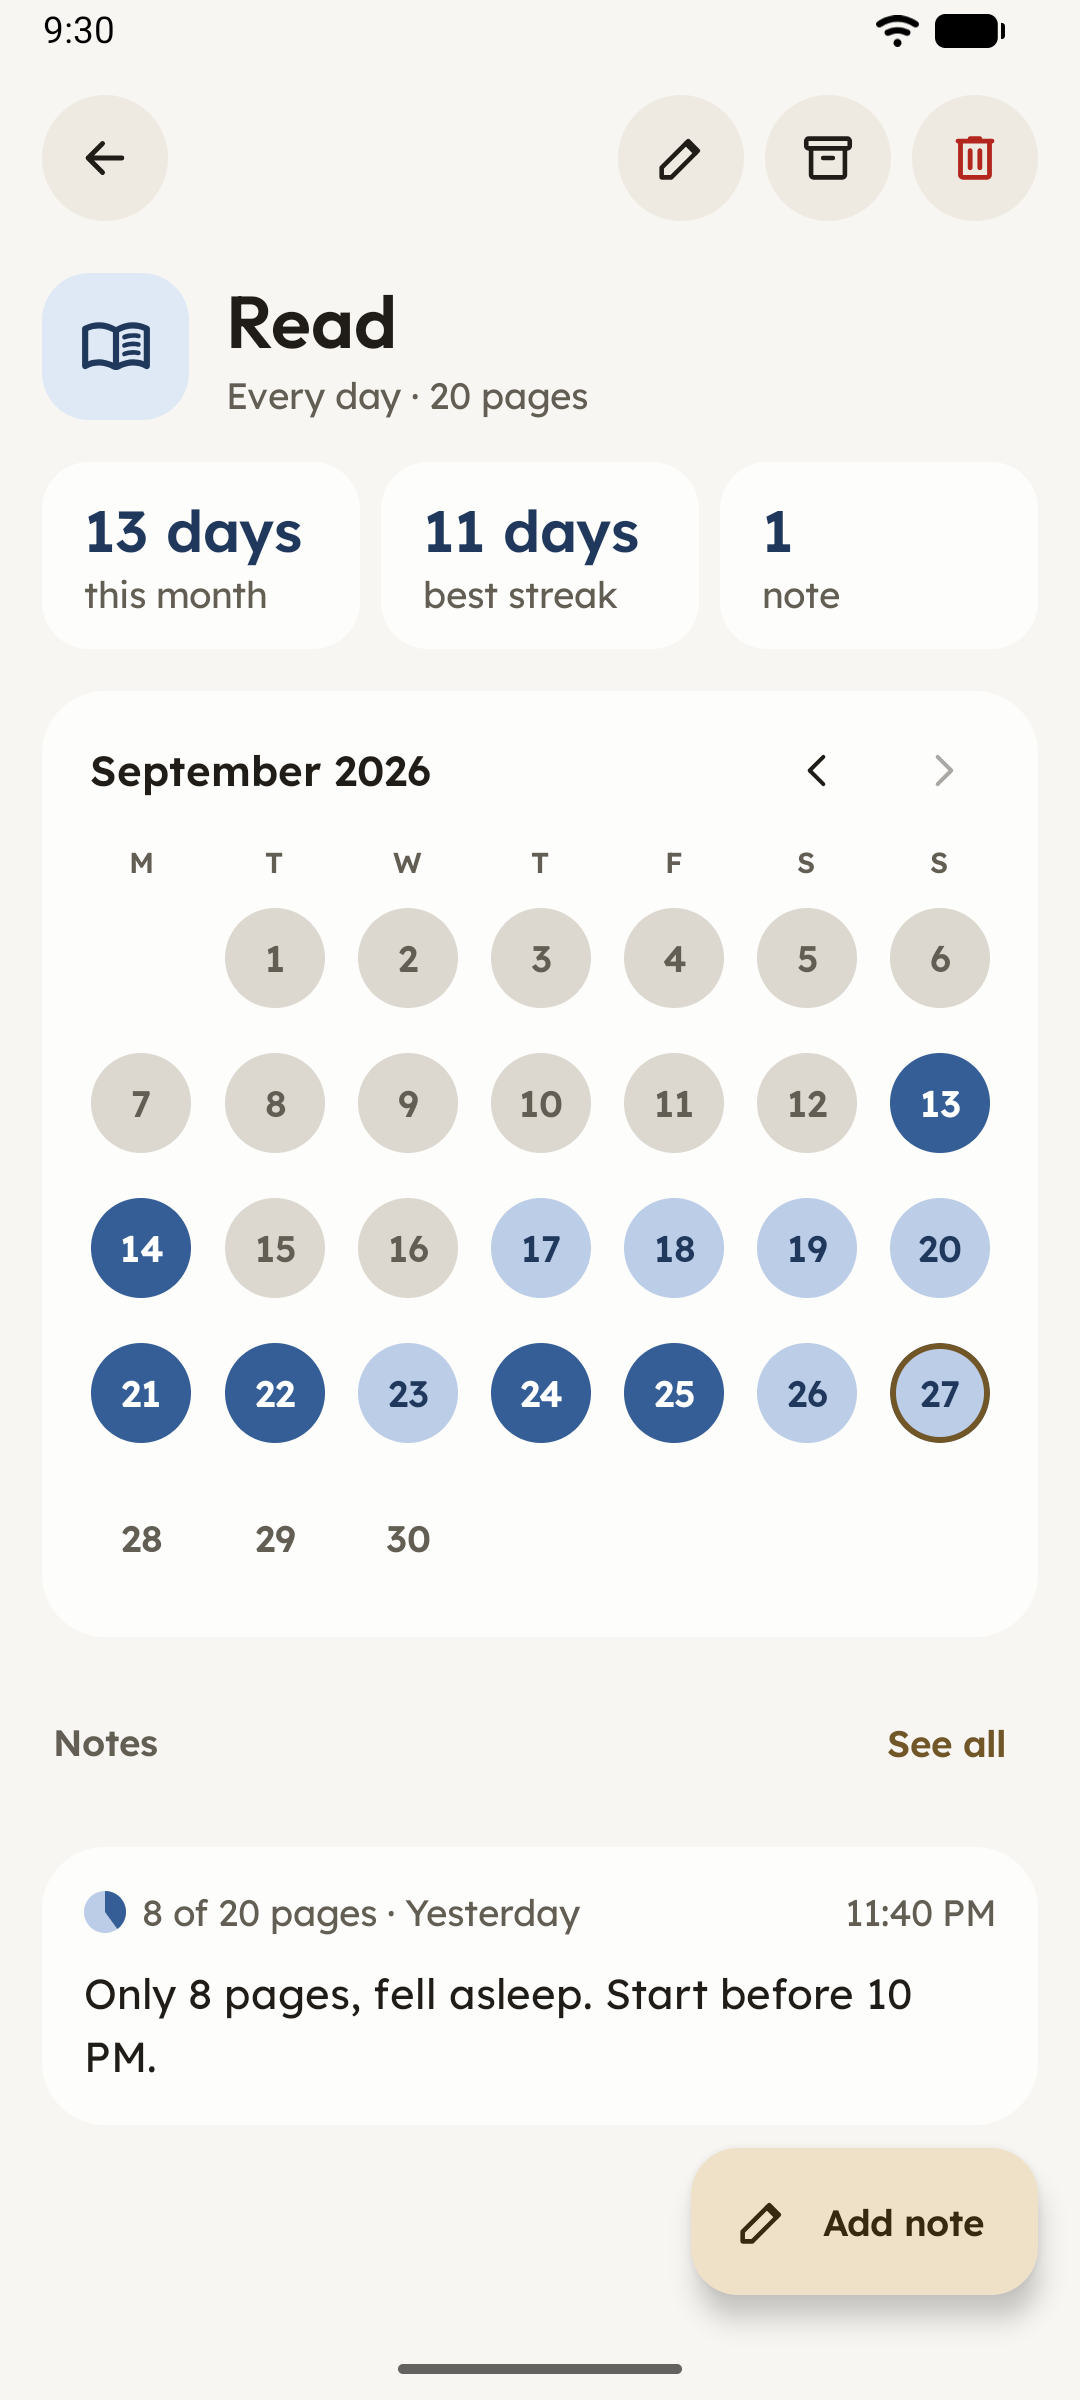
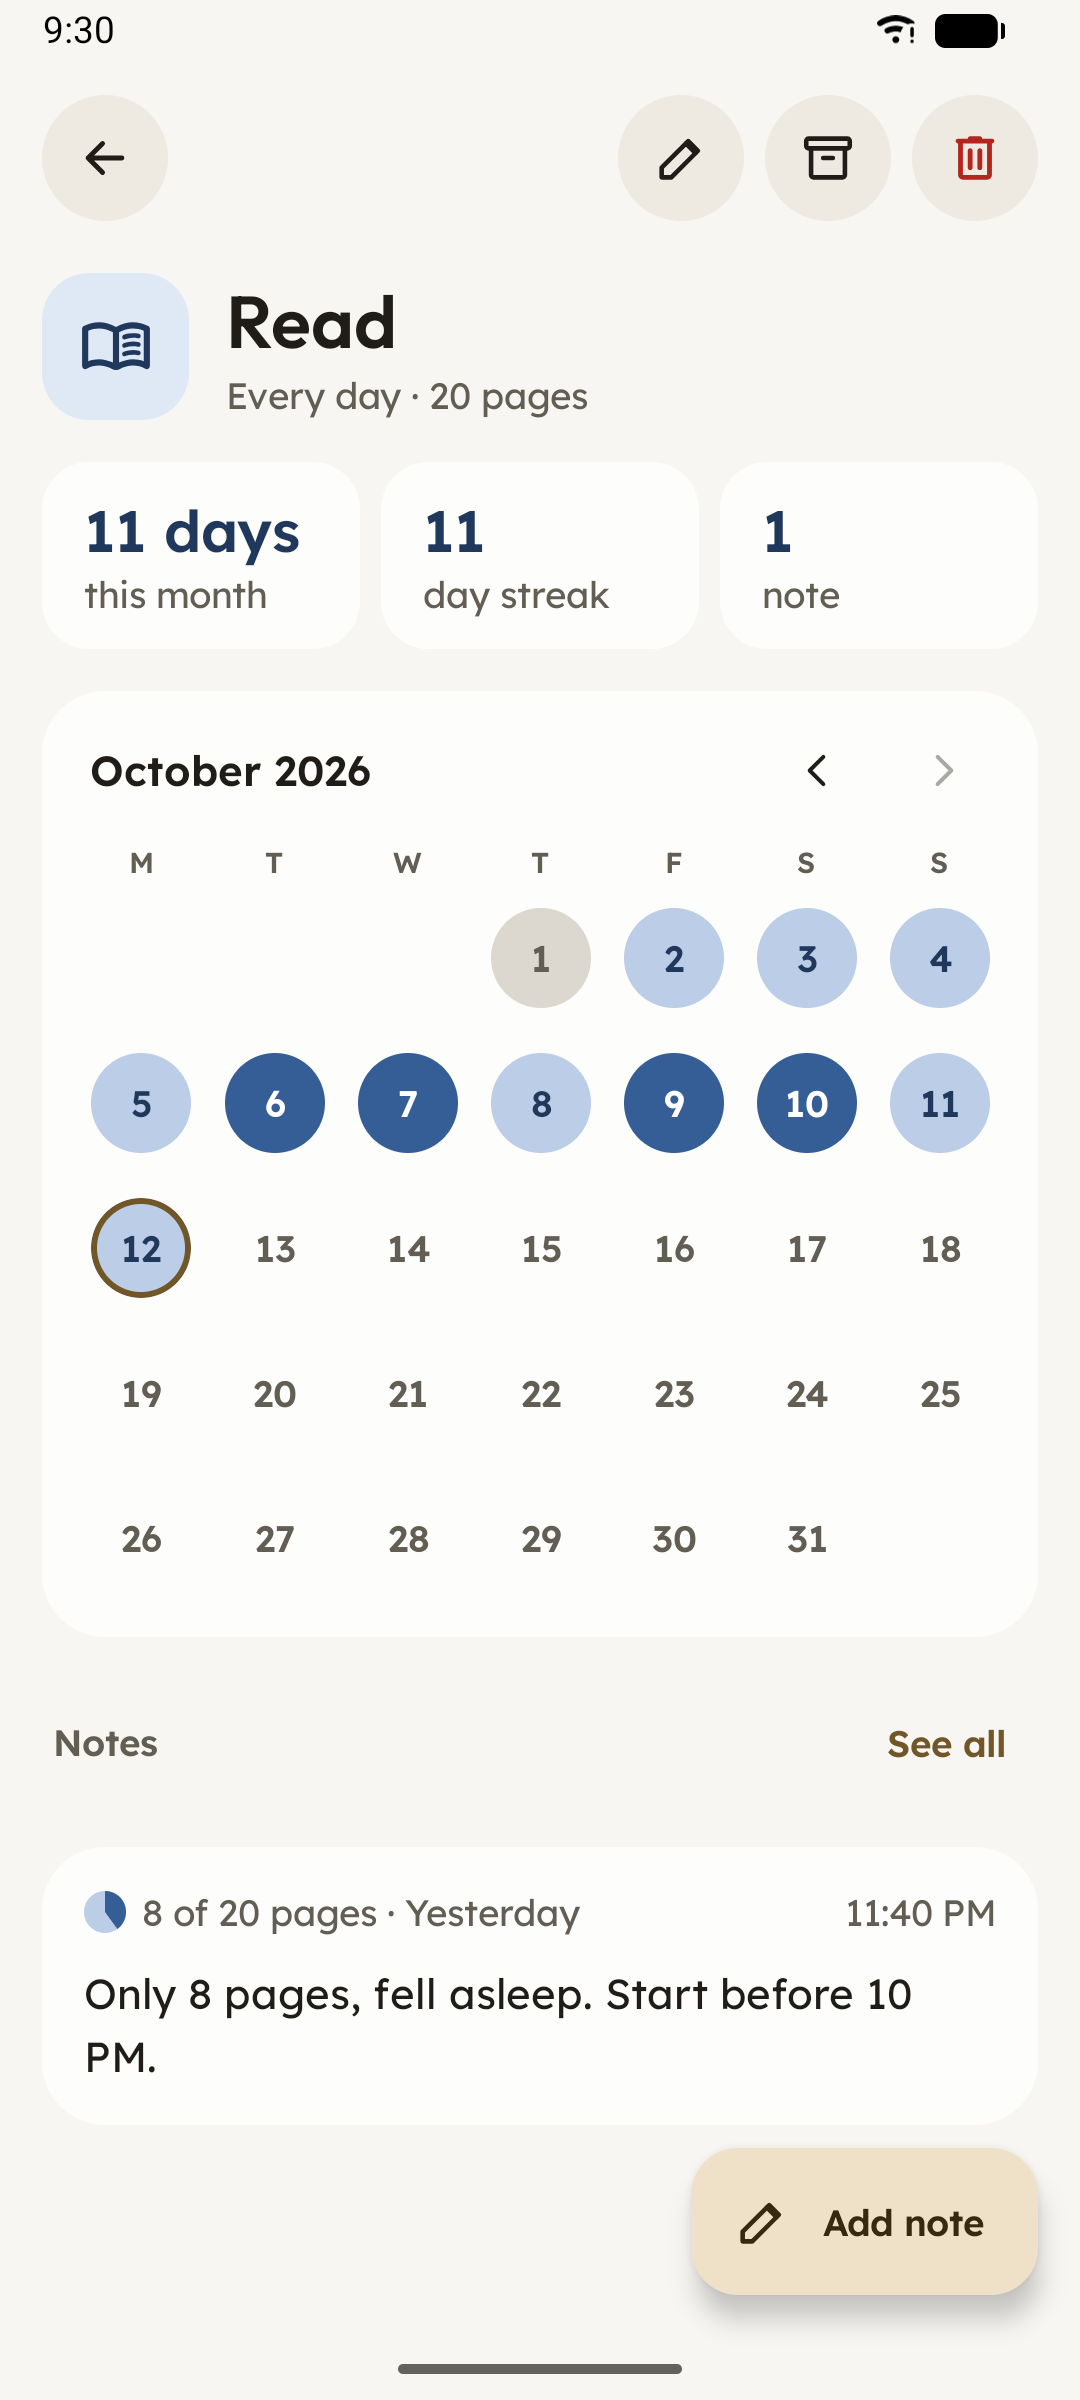
Delete from Edit closes the habit's page, no reminder once a habit is logged, current streak on habit detail, even legend gaps
- Deleting a habit from Edit also closes its detail page, so it no longer lands on an empty screen.
- A habit logged today (Done, Partial or Skip) gets no reminder, and a reminder still showing is removed when it is logged. The "to go" reminder text is gone with it.
- Habit detail shows the current streak ("4 / day streak") in place of the best streak.
- Habits > Overall: the legend has 16dp above and below.

diff --git a/app/src/main/java/app/sprout/habits/notify/ReminderNotifier.kt b/app/src/main/java/app/sprout/habits/notify/ReminderNotifier.kt
@@ -15,7 +15,6 @@ import app.sprout.habits.data.Habit
 import app.sprout.habits.domain.measure
 import app.sprout.habits.data.HabitRepository
 import app.sprout.habits.data.TrackType
-import app.sprout.habits.ui.today.TodayViewModel.Companion.formatNumber
 import app.sprout.habits.domain.isScheduled
 import java.time.LocalDate
 import kotlinx.coroutines.CoroutineScope
@@ -26,19 +25,18 @@ class ReminderNotifier(
     private val context: Context,
     private val repository: HabitRepository,
 ) {
-    /** The habit's reminder, unless today is already done or skipped. */
+    /** The habit's reminder, unless today is already logged (Done, Partial or Skip). */
     @SuppressLint("MissingPermission") // checked by canPost()
     suspend fun showReminder(habit: Habit) {
         if (habit.archived || !Notifications.canPost(context)) return
-        val entry = repository.getEntry(habit.id, LocalDate.now().toEpochDay())
-        if (entry?.status == EntryStatus.DONE || entry?.status == EntryStatus.SKIP) return
-        val (title, text) = reminderText(habit, entry?.amount ?: 0.0, ResourceStrings(context))
+        if (repository.getEntry(habit.id, LocalDate.now().toEpochDay()) != null) return
+        val (title, text) = reminderText(habit, ResourceStrings(context))
         post(habit.id, Notifications.CHANNEL_REMINDERS, title, text, reminderId(habit.id))
     }
 
     /**
-     * Takes a reminder that is still showing out of the shade once its habit is done or skipped
-     * today, wherever that was logged (the app, a widget, an import).
+     * Takes a reminder that is still showing out of the shade once its habit is logged today,
+     * wherever that was done (the app, a widget, an import).
      */
     fun start(scope: CoroutineScope) {
         scope.launch {
@@ -48,8 +46,7 @@ class ReminderNotifier(
                 val today = LocalDate.now().toEpochDay()
                 val manager = NotificationManagerCompat.from(context)
                 for (entry in entries) {
-                    if (entry.date != today || entry.status == EntryStatus.PARTIAL) continue
-                    manager.cancel(reminderId(entry.habitId))
+                    if (entry.date == today) manager.cancel(reminderId(entry.habitId))
                 }
             }
         }
@@ -94,14 +91,10 @@ class ReminderNotifier(
         fun reminderId(habitId: Long) = habitId.toInt() * 2
         fun noteReminderId(habitId: Long) = habitId.toInt() * 2 + 1
 
-        /** Title and line for a reminder, given how much is already logged today. */
-        fun reminderText(habit: Habit, amount: Double, strings: Strings): Pair<String, String> {
-            return when {
-                habit.trackType == TrackType.CHECK -> habit.name to strings(R.string.reminder_check)
-                amount > 0 -> strings(R.string.reminder_to_go, habit.name, habit.measure((habit.target - amount).coerceAtLeast(0.0))) to
-                    strings(R.string.reminder_progress, formatNumber(amount), habit.measure(habit.target))
-                else -> habit.name to strings(R.string.reminder_goal, habit.measure(habit.target))
-            }
+        /** Title and line for a reminder. */
+        fun reminderText(habit: Habit, strings: Strings): Pair<String, String> = when (habit.trackType) {
+            TrackType.CHECK -> habit.name to strings(R.string.reminder_check)
+            TrackType.AMOUNT -> habit.name to strings(R.string.reminder_goal, habit.measure(habit.target))
         }
     }
 }

diff --git a/app/src/test/java/app/sprout/habits/notify/ReminderTextTest.kt b/app/src/test/java/app/sprout/habits/notify/ReminderTextTest.kt
@@ -9,27 +9,21 @@ import org.junit.Test
 class ReminderTextTest {
     private val read = Habit(name = "Read", icon = "book", colorHue = 215, trackType = TrackType.AMOUNT, target = 20.0, unit = "pages")
 
-    @Test fun partialAmountSaysHowMuchIsLeft() = assertEquals(
-        "Read · 5 pages to go" to "You're at 15 of 20 pages today.",
-        ReminderNotifier.reminderText(read, 15.0, TestStrings),
-    )
-
-    @Test fun nothingLoggedStatesTheGoal() =
-        assertEquals("Read" to "Goal today: 20 pages.", ReminderNotifier.reminderText(read, 0.0, TestStrings))
+    @Test fun measureHabitStatesTheGoal() =
+        assertEquals("Read" to "Goal today: 20 pages.", ReminderNotifier.reminderText(read, TestStrings))
 
     @Test fun minutesHabitReadsInMinutes() {
         val workout = Habit(name = "Workout", icon = "dumbbell", colorHue = 12, trackType = TrackType.AMOUNT, target = 45.0, unit = "min", step = 5.0)
-        assertEquals("Workout · 15 min to go" to "You're at 30 of 45 min today.", ReminderNotifier.reminderText(workout, 30.0, TestStrings))
+        assertEquals("Workout" to "Goal today: 45 min.", ReminderNotifier.reminderText(workout, TestStrings))
     }
 
     @Test fun checkHabitIsJustTheName() {
         val vitamins = Habit(name = "Vitamins", icon = "pill", colorHue = 95)
-        assertEquals("Vitamins" to "Time to check it off.", ReminderNotifier.reminderText(vitamins, 0.0, TestStrings))
+        assertEquals("Vitamins" to "Time to check it off.", ReminderNotifier.reminderText(vitamins, TestStrings))
     }
 
     @Test fun amountWithoutUnitReadsCleanly() {
         val pushups = Habit(name = "Push-ups", icon = "dumbbell", colorHue = 12, trackType = TrackType.AMOUNT, target = 30.0)
-        assertEquals("Push-ups · 10 to go" to "You're at 20 of 30 today.", ReminderNotifier.reminderText(pushups, 20.0, TestStrings))
-        assertEquals("Push-ups" to "Goal today: 30.", ReminderNotifier.reminderText(pushups, 0.0, TestStrings))
+        assertEquals("Push-ups" to "Goal today: 30.", ReminderNotifier.reminderText(pushups, TestStrings))
     }
 }

diff --git a/app/src/main/java/app/sprout/habits/ui/detail/HabitDetailViewModel.kt b/app/src/main/java/app/sprout/habits/ui/detail/HabitDetailViewModel.kt
@@ -12,7 +12,6 @@ import app.sprout.habits.data.HabitIcon
 import app.sprout.habits.data.HabitRepository
 import app.sprout.habits.data.Note
 import app.sprout.habits.data.SettingsRepository
-import app.sprout.habits.domain.bestStreak
 import app.sprout.habits.domain.currentStreak
 import app.sprout.habits.domain.dayCredit
 import app.sprout.habits.domain.history
@@ -56,7 +55,6 @@ data class HabitDetailUi(
     /** "this month", or "August" when looking at another month. */
     val monthDoneLabel: String,
     val currentStreak: Int,
-    val bestStreak: Int,
     val noteCount: Int,
     val monthLabel: String,
     val canGoForward: Boolean,
@@ -139,7 +137,6 @@ class HabitDetailViewModel(
             monthDone = (first..minOf(last, todayDay)).count { history.isScheduled(it) && history.isKept(it, todayDay) },
             monthDoneLabel = if (ym == YearMonth.now()) strings(R.string.this_month) else ym.month.getDisplayName(TextStyle.FULL, Locale.getDefault()),
             currentStreak = history.currentStreak(todayDay),
-            bestStreak = history.bestStreak(todayDay),
             noteCount = notes.size,
             monthLabel = ym.format(datePattern("MMMM yyyy")),
             canGoForward = ym < YearMonth.now(),

diff --git a/app/src/main/java/app/sprout/habits/ui/nav/SproutNavHost.kt b/app/src/main/java/app/sprout/habits/ui/nav/SproutNavHost.kt
@@ -143,7 +143,14 @@ fun SproutNavHost(
             composable<EditHabitRoute> { entry ->
                 val id = entry.toRoute<EditHabitRoute>().habitId
                 val vm = viewModel { EditHabitViewModel(container.repository, container.settings, id) }
-                EditHabitScreen(vm, onClose = { navController.popBackStack() })
+                EditHabitScreen(
+                    vm,
+                    onClose = { navController.popBackStack() },
+                    // The habit's detail page has nothing left to show, so it closes too.
+                    onDeleted = {
+                        if (!navController.popBackStack<HabitDetailRoute>(inclusive = true)) navController.popBackStack()
+                    },
+                )
             }
             composable<HabitsRoute> {
                 TabFrame {

diff --git a/app/src/main/java/app/sprout/habits/ui/edit/EditHabitViewModel.kt b/app/src/main/java/app/sprout/habits/ui/edit/EditHabitViewModel.kt
@@ -63,6 +63,11 @@ class EditHabitViewModel(
     /** Emits once the habit has been saved, so the screen can close. */
     val saved = _saved.receiveAsFlow()
 
+    private val _deleted = Channel<Unit>(Channel.CONFLATED)
+
+    /** Emits once the habit has been deleted, so the screens showing it can close. */
+    val deleted = _deleted.receiveAsFlow()
+
     /** The habit as stored, kept so saving preserves fields the form doesn't show. */
     private var original: Habit? = null
 
@@ -134,7 +139,7 @@ class EditHabitViewModel(
         val habit = original ?: return
         viewModelScope.launch {
             repository.deleteHabit(habit)
-            _saved.send(Unit)
+            _deleted.send(Unit)
         }
     }
 

diff --git a/app/src/main/java/app/sprout/habits/ui/detail/HabitDetailScreen.kt b/app/src/main/java/app/sprout/habits/ui/detail/HabitDetailScreen.kt
@@ -113,7 +113,7 @@ fun HabitDetailScreen(
             item(key = "stats") {
                 Row(horizontalArrangement = Arrangement.spacedBy(8.dp)) {
                     StatTile(days(ui.monthDone), ui.monthDoneLabel, hc, Modifier.weight(1f))
-                    StatTile(days(ui.bestStreak), stringResource(R.string.best_streak), hc, Modifier.weight(1f))
+                    StatTile("${ui.currentStreak}", stringResource(R.string.day_streak), hc, Modifier.weight(1f))
                     StatTile("${ui.noteCount}", pluralStringResource(R.plurals.notes_count_label, ui.noteCount), hc, Modifier.weight(1f))
                 }
             }

diff --git a/app/src/main/java/app/sprout/habits/ui/edit/EditHabitScreen.kt b/app/src/main/java/app/sprout/habits/ui/edit/EditHabitScreen.kt
@@ -87,9 +87,10 @@ import java.util.Locale
 import app.sprout.habits.ui.components.TimePickerSheet
 
 @Composable
-fun EditHabitScreen(viewModel: EditHabitViewModel, onClose: () -> Unit) {
+fun EditHabitScreen(viewModel: EditHabitViewModel, onClose: () -> Unit, onDeleted: () -> Unit) {
     val form by viewModel.form.collectAsStateWithLifecycle()
     LaunchedEffect(viewModel) { viewModel.saved.collect { onClose() } }
+    LaunchedEffect(viewModel) { viewModel.deleted.collect { onDeleted() } }
     if (!form.loaded) return
     var deleting by rememberSaveable { mutableStateOf(false) }
     EditHabitContent(

diff --git a/app/src/main/java/app/sprout/habits/ui/habits/HabitsScreen.kt b/app/src/main/java/app/sprout/habits/ui/habits/HabitsScreen.kt
@@ -236,7 +236,8 @@ private fun describe(kind: MarkKind, fraction: Float) = when (kind) {
 private fun Legend() {
     val colors = MaterialTheme.colorScheme
     FlowRow(
-        Modifier.fillMaxWidth().padding(horizontal = 4.dp),
+        // With the list's 8 dp, the legend has the same 16 dp under it as above it.
+        Modifier.fillMaxWidth().padding(start = 4.dp, end = 4.dp, bottom = 8.dp),
         horizontalArrangement = Arrangement.SpaceBetween,
         itemVerticalAlignment = Alignment.CenterVertically,
     ) {

diff --git a/tools/verify/smoke.py b/tools/verify/smoke.py
@@ -246,7 +246,7 @@ def edit_past_day_from_detail_calendar():
     d.nav("Habits")
     d.tap("Week")
     d.tap("Wake up at 7")
-    assert d.exists("best streak"), "habit detail didn't open"
+    assert d.exists("day streak"), "habit detail didn't open"
     time.sleep(0.8)  # let the screen transition finish before tapping a day
     if day.month != datetime.date.today().month:
         d.tap("Previous month")
@@ -283,7 +283,7 @@ def habits_week_and_overall():
 @check
 def habit_detail_opens():
     d.tap("Read", timeout=5)
-    assert d.exists("best streak"), "detail stats missing"
+    assert d.exists("day streak"), "detail stats missing"
     assert d.exists("this month"), "detail's first stat isn't \"this month\""
     assert not any(n.label.endswith("%") for n in d.dump()), "detail still shows a percentage"
     assert d.exists("Edit habit"), "edit action missing"

diff --git a/docs/FEATURES.md b/docs/FEATURES.md
@@ -22,7 +22,7 @@ Habits are created and edited on one screen: name, icon (7 suggestions, or any o
 
 Measure habits have a step: how far − / + and the slider move when logging (1 page, 500 steps, 0.25 h). Before 1.1 there was a separate Duration type; the database migration and backup import turn those habits into Measure habits in "min" (step 5) or "h" (step 0.25).
 
-The Habits tab has a Week view (seven day marks per habit, with arrows to earlier weeks; tap any past day to edit it in the same sheet as Today) and an Overall view (a 26-week heatmap per habit with its current and best streak). Tapping a habit opens its detail screen (round back, edit, archive and delete buttons in the header) with the days done this month, best streak, note count, a month calendar (tap a past day to edit it) and its notes.
+The Habits tab has a Week view (seven day marks per habit, with arrows to earlier weeks; tap any past day to edit it in the same sheet as Today) and an Overall view (a 26-week heatmap per habit with its current and best streak). Tapping a habit opens its detail screen (round back, edit, archive and delete buttons in the header) with the days done this month, the current streak, note count, a month calendar (tap a past day to edit it) and its notes.
 
 Code: `ui/edit/`, `ui/manage/`, `ui/habits/`, `ui/detail/`, statistics in `domain/Stats.kt`.
 
@@ -40,7 +40,7 @@ Code: `ui/insights/`.
 
 ## Reminders
 
-Each habit can have one daily reminder on its scheduled days. The time is set in a sheet with hour and minute steppers (tap or hold the arrows, or drag a number) and an AM/PM switch on 12-hour phones (`ui/components/TimePickerSheet.kt`). The notification shows what's left for today and opens the habit when tapped. Reminders are exact when the user allows "Alarms & reminders", and otherwise arrive within 10 minutes. At 9 PM, habits that were skipped and ask for a note get a short prompt to add one.
+Each habit can have one daily reminder on its scheduled days. The time is set in a sheet with hour and minute steppers (tap or hold the arrows, or drag a number) and an AM/PM switch on 12-hour phones (`ui/components/TimePickerSheet.kt`). The notification shows the habit and its goal and opens the habit when tapped. A habit already logged today (Done, Partial or Skip) gets no reminder, and one still showing is removed when the habit is logged. Reminders are exact when the user allows "Alarms & reminders", and otherwise arrive within 10 minutes. At 9 PM, habits that were skipped and ask for a note get a short prompt to add one.
 
 Code: `notify/`, timing in `domain/ReminderTime.kt`.
 

diff --git a/.claude/skills/reminders/SKILL.md b/.claude/skills/reminders/SKILL.md
@@ -10,7 +10,7 @@ description: Habit reminders and the evening note nudge (AlarmManager, notificat
 **Code**
 - `notify/ReminderScheduler.kt`: one alarm per habit; exact (`setExactAndAllowWhileIdle`) when "Alarms & reminders" is allowed, otherwise a 10-minute window. `start()` watches the database, so any edit, archive, delete or import reschedules. Also the 9 PM note nudge (`NOTE_NUDGE_MINUTES`).
 - `notify/ReminderReceiver.kt` (fires, posts, schedules next; `RescheduleReceiver` for boot/time/zone/package replaced/exact-alarm permission change).
-- `notify/ReminderNotifier.kt` (text, skips days already done or skipped; `start()` watches today's entries and removes a reminder still in the shade once its habit is done or skipped), `notify/Notifications.kt` (channels, permission checks), `domain/ReminderTime.kt` (+ `ReminderTimeTest`).
+- `notify/ReminderNotifier.kt` (text, skips a day that already has an entry, whether Done, Partial or Skip; `start()` watches today's entries and removes a reminder still in the shade once its habit is logged), `notify/Notifications.kt` (channels, permission checks), `domain/ReminderTime.kt` (+ `ReminderTimeTest`).
 
 **Verify**
 - `adb shell dumpsys alarm | grep -A2 action.REMINDER` shows the next times.

diff --git a/.claude/skills/habits-views/SKILL.md b/.claude/skills/habits-views/SKILL.md
@@ -7,7 +7,7 @@ description: The Habits tab (Week marks, Overall heatmap) and Habit detail (stat
 
 **Code**
 - `ui/habits/HabitsViewModel.kt` + `HabitsScreen.kt`: Week view queries only the visible week; Overall queries 26 weeks. Best streak in Overall is within that window.
-- `ui/detail/HabitDetailViewModel.kt` + `HabitDetailScreen.kt`: all entries of one habit (all-time best streak), month calendar, notes, round header buttons for edit, archive and delete.
+- `ui/detail/HabitDetailViewModel.kt` + `HabitDetailScreen.kt`: all entries of one habit (current streak), month calendar, notes, round header buttons for edit, archive and delete.
 - `ui/components/DayMark.kt`: the shared mark shapes (check, pie, dash, dashed ring, dotted ring, dot) also used by widgets.
 - `domain/Stats.kt`: `HabitHistory`, `score`, `currentStreak`, `bestStreak`, `counts`.
 
